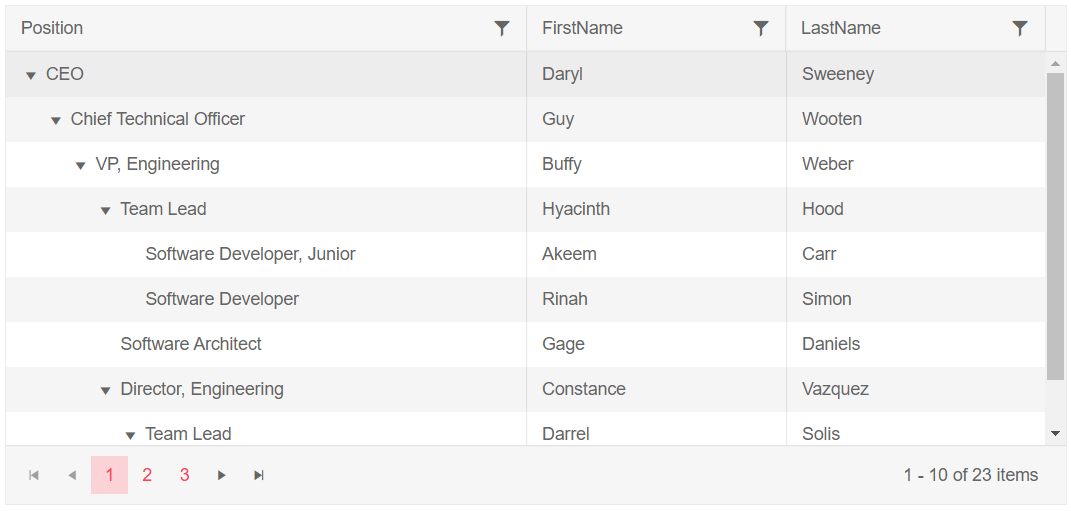
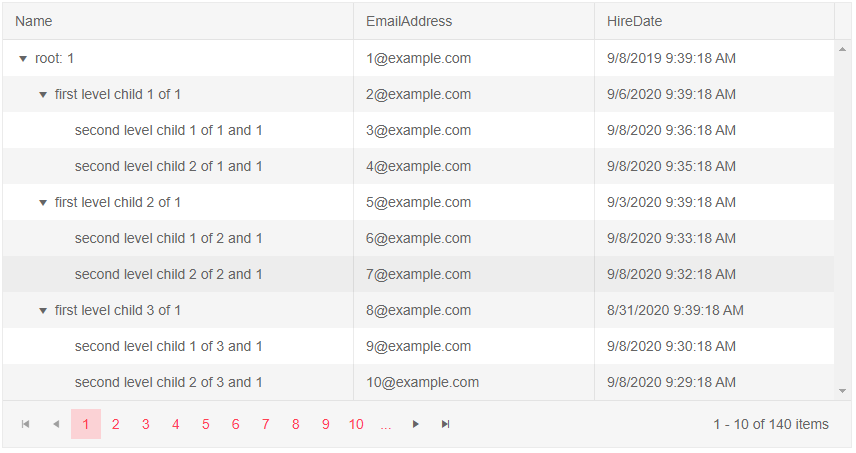
chore(treeview): updated basic example for visible param

diff --git a/components/treelist/columns/visible.md b/components/treelist/columns/visible.md
@@ -27,258 +27,89 @@ To hide a TreeList column set its `Visible` parameter to `false`. To hide a colu
 >caption Hide a column from the TreeList. Basic example.
 
 ````CSHTML
-@* Hide the EmployeeId TreeList column by setting the Visible parameter to false *@
+@* Hide the Id TreeList column by setting the Visible parameter to false *@
 
 <TelerikTreeList Data="@Data"
-                 ItemsField="DirectReports"
-                 HasChildrenField="HasReports"
-                 Pageable="true"
-                 Sortable="true"
-                 FilterMode="@TreeListFilterMode.FilterMenu"
-                 Width="750px" Height="400px"
-                 Resizable="true" Reorderable="true">
+                 ItemsField="@(nameof(Employee.DirectReports))"
+                 Pageable="true" Width="850px">
     <TreeListColumns>
-        <TreeListColumn Expandable="true" Field="Position" Width="400px"></TreeListColumn>
-        <TreeListColumn Field="FirstName" Width="200px"></TreeListColumn>
-        <TreeListColumn Field="LastName" Width="200px"></TreeListColumn>
-        <TreeListColumn Field="EmployeeId" Width="100px" Visible="false"></TreeListColumn>
+        <TreeListColumn Field="Name" Expandable="true" Width="320px" />
+        <TreeListColumn Field="Id" Editable="false" Width="120px" Visible="false"/>
+        <TreeListColumn Field="EmailAddress" Width="220px" />
+        <TreeListColumn Field="HireDate" Width="220px" />
     </TreeListColumns>
 </TelerikTreeList>
 
 @code {
-    // a model to bind the treelist. Should usually be in its own separate location
-    public class EmployeeHierarchical
+    public List<Employee> Data { get; set; }
+
+    public class Employee
     {
-        public int EmployeeId { get; set; }
-        public string FirstName { get; set; }
-        public string LastName { get; set; }
-        public string Position { get; set; }
-        public List<EmployeeHierarchical> DirectReports { get; set; }
-        public bool HasReports { get; set; }
+        // hierarchical data collections
+        public List<Employee> DirectReports { get; set; }
+
+        // data fields for display
+        public int Id { get; set; }
+        public string Name { get; set; }
+        public string EmailAddress { get; set; }
+        public DateTime HireDate { get; set; }
     }
 
-    // treelist data
-    public List<EmployeeHierarchical> Data { get; set; }
+    public int LastId { get; set; } = 1;
 
-    // fetch the treelist data
     protected override async Task OnInitializedAsync()
     {
-        Data = await GetEmployees();
+        Data = await GetTreeListData();
     }
 
-    // The next 200 lines are hardcoded data so you can explore the TreeList freely
-
-    async Task<List<EmployeeHierarchical>> GetEmployees()
+    async Task<List<Employee>> GetTreeListData()
     {
-        List<EmployeeHierarchical> sampleData = new List<EmployeeHierarchical>();
+        List<Employee> data = new List<Employee>();
 
-        EmployeeHierarchical theCEO = new EmployeeHierarchical
+        for (int i = 1; i < 15; i++)
         {
-            EmployeeId = 1,
-            FirstName = "Daryl",
-            LastName = "Sweeney",
-            Position = "CEO",
-            HasReports = true
-        };
+            Employee root = new Employee
+            {
+                Id = LastId,
+                Name = $"root: {i}",
+                EmailAddress = $"{i}@example.com",
+                HireDate = DateTime.Now.AddYears(-i),
+                DirectReports = new List<Employee>()
+            };
+            data.Add(root);
+            LastId++;
 
-        theCEO.DirectReports = new List<EmployeeHierarchical>
-{
-            new EmployeeHierarchical
+            for (int j = 1; j < 4; j++)
             {
-                EmployeeId = 2,
-                FirstName = "Guy",
-                LastName = "Wooten",
-                Position = "Chief Technical Officer",
-                HasReports = true
-            },
-            new EmployeeHierarchical
-            {
-                EmployeeId = 3,
-                FirstName = "Nevada",
-                LastName = "Hart",
-                Position = "Chief Financial Officer",
-                HasReports = true,
-                DirectReports = new List<EmployeeHierarchical>
-        {
-                    new EmployeeHierarchical
+                int currId = LastId;
+                Employee firstLevelChild = new Employee
+                {
+                    Id = currId,
+                    Name = $"first level child {j} of {i}",
+                    EmailAddress = $"{currId}@example.com",
+                    HireDate = DateTime.Now.AddDays(-currId),
+                    DirectReports = new List<Employee>(),
+                };
+                root.DirectReports.Add(firstLevelChild);
+                LastId++;
+
+                for (int k = 1; k < 3; k++)
+                {
+                    int nestedId = LastId;
+                    // populate the parent's collection
+                    firstLevelChild.DirectReports.Add(new Employee
                     {
-                        EmployeeId = 24,
-                        FirstName = "Zena",
-                        LastName = "Stanford",
-                        Position = "VP, Finance"
-                    }
+                        Id = LastId,
+                        Name = $"second level child {k} of {j} and {i}",
+                        EmailAddress = $"{nestedId}@example.com",
+                        HireDate = DateTime.Now.AddMinutes(-nestedId)
+                    }); ;
+                    LastId++;
                 }
             }
-        };
+        }
 
-        theCEO.DirectReports[0].DirectReports = new List<EmployeeHierarchical>
-{
-            new EmployeeHierarchical
-            {
-                EmployeeId = 4,
-                FirstName = "Buffy",
-                LastName = "Weber",
-                Position = "VP, Engineering",
-                HasReports = true,
-                DirectReports = new List<EmployeeHierarchical>
-        {
-                    new EmployeeHierarchical
-                    {
-                        EmployeeId = 6,
-                        FirstName = "Hyacinth",
-                        LastName = "Hood",
-                        Position = "Team Lead",
-                        HasReports = true,
-                        DirectReports = new List<EmployeeHierarchical>
-                {
-                            new EmployeeHierarchical
-                            {
-                                EmployeeId = 7,
-                                FirstName = "Akeem",
-                                LastName = "Carr",
-                                Position = "Software Developer, Junior"
-                            },
-                            new EmployeeHierarchical
-                            {
-                                EmployeeId = 8,
-                                FirstName = "Rinah",
-                                LastName = "Simon",
-                                Position = "Software Developer"
-                            }
-                        }
-                    },
-                    new EmployeeHierarchical
-                    {
-                        EmployeeId = 9,
-                        FirstName = "Gage",
-                        LastName = "Daniels",
-                        Position = "Software Architect"
-                    },
-                    new EmployeeHierarchical
-                    {
-                        EmployeeId = 10,
-                        FirstName = "Constance",
-                        LastName = "Vazquez",
-                        Position = "Director, Engineering",
-                        HasReports = true,
-                        DirectReports = new List<EmployeeHierarchical>
-                {
-                            new EmployeeHierarchical
-                            {
-                                EmployeeId = 11,
-                                FirstName = "Darrel",
-                                LastName = "Solis",
-                                Position = "Team Lead",
-                                HasReports = true,
-                                DirectReports = new List<EmployeeHierarchical>
-                        {
-                                    new EmployeeHierarchical
-                                    {
-                                        EmployeeId = 12,
-                                        FirstName = "Brian",
-                                        LastName = "Yang",
-                                        Position = "Software Developer, Senior"
-                                    },
-                                    new EmployeeHierarchical
-                                    {
-                                        EmployeeId = 13,
-                                        FirstName = "Lillian",
-                                        LastName = "Bradshaw",
-                                        Position = "Software Developer"
-                                    },
-                                    new EmployeeHierarchical
-                                    {
-                                        EmployeeId = 14,
-                                        FirstName = "Keiko",
-                                        LastName = "Espinoza",
-                                        Position = "QA Engineer, Junior"
-                                    }
-                                }
-                            }
-                        }
-                    }
-                }
-            },
-            new EmployeeHierarchical
-            {
-                EmployeeId = 5,
-                FirstName = "Skyler",
-                LastName = "Cleveland",
-                Position = "VP, Engineering",
-                HasReports = true,
-                DirectReports = new List<EmployeeHierarchical>
-        {
-                    new EmployeeHierarchical
-                    {
-                        EmployeeId = 16,
-                        FirstName = "Karleigh",
-                        LastName = "Garza",
-                        Position = "Team Lead",
-                        HasReports = true,
-                        DirectReports = new List<EmployeeHierarchical>
-                {
-                            new EmployeeHierarchical
-                            {
-                                EmployeeId = 17,
-                                FirstName = "Elmo",
-                                LastName = "Tyson",
-                                Position = "Software Developer"
-                            },
-                            new EmployeeHierarchical
-                            {
-                                EmployeeId = 18,
-                                FirstName = "Stacey",
-                                LastName = "Lynn",
-                                Position = "QA Engineer",
-                                HasReports = true,
-                                DirectReports = new List<EmployeeHierarchical>
-                        {
-                                    new EmployeeHierarchical
-                                    {
-                                        EmployeeId = 19,
-                                        FirstName = "Meredith",
-                                        LastName = "Parish",
-                                        Position = "QA Engineer, Junior"
-                                    }
-                                }
-                            },
-                            new EmployeeHierarchical
-                            {
-                                EmployeeId = 20,
-                                FirstName = "Martha",
-                                LastName = "Sargent",
-                                Position = "Software Developer, Senior"
-                            },
-                            new EmployeeHierarchical
-                            {
-                                EmployeeId = 21,
-                                FirstName = "Cassady",
-                                LastName = "Whitley",
-                                Position = "Software Developer"
-                            },
-                            new EmployeeHierarchical
-                            {
-                                EmployeeId = 22,
-                                FirstName = "Haviva",
-                                LastName = "Campbell",
-                                Position = "Support Officer"
-                            },
-                            new EmployeeHierarchical
-                            {
-                                EmployeeId = 23,
-                                FirstName = "Cameron",
-                                LastName = "Ayers",
-                                Position = "Support Officer"
-                            }
-                        }
-                    }
-                }
-            }
-        };
-
-        sampleData.Add(theCEO);
-
-        return await Task.FromResult(sampleData);
+        return await Task.FromResult(data);
     }
 }
 ````
